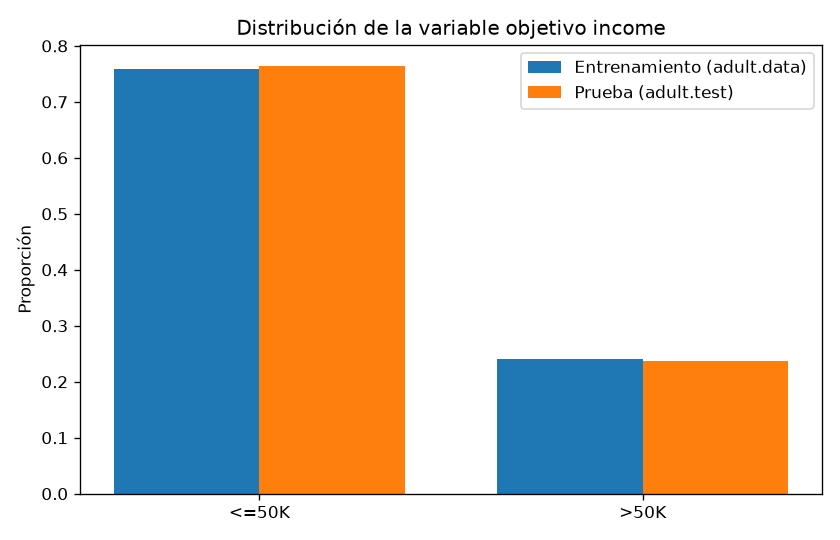
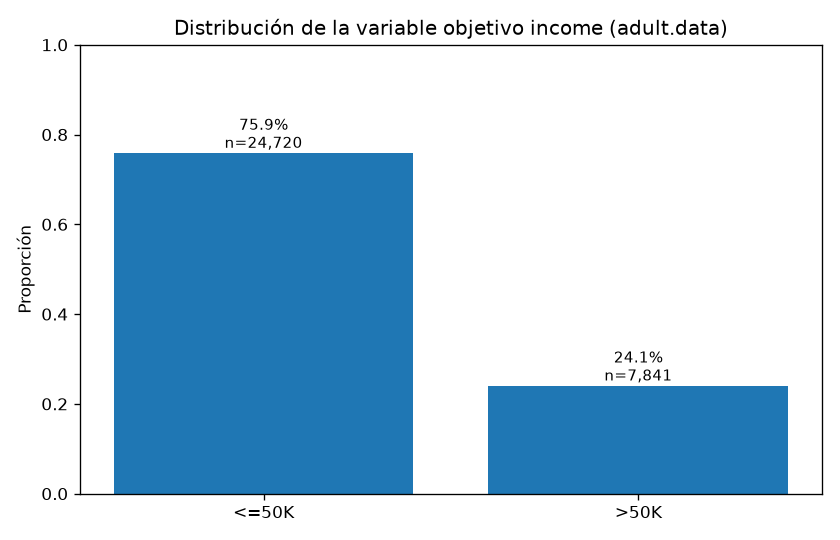
fix: reservar adult.test y conservar faltantes en tasas por grupo refs #3

diff --git a/src/eda.py b/src/eda.py
@@ -6,8 +6,9 @@ Uso:
 Requiere haber descargado antes los datos con:
     python src/download_data.py
 
-Las estadísticas se calculan sobre adult.data. El archivo adult.test
-solo se utiliza para comparar la distribución de la variable objetivo.
+Todas las estadísticas se calculan exclusivamente sobre adult.data.
+El archivo adult.test queda reservado para la evaluación final de los
+modelos y no se utiliza en el EDA.
 """
 
 from pathlib import Path
@@ -53,6 +54,8 @@ CATEGORICAL_COLUMNS = [
 AGE_BINS = [0, 25, 45, 65, 120]
 AGE_LABELS = ["<25", "25-44", "45-64", "65+"]
 
+MISSING_LABEL = "(faltante)"
+
 
 def add_age_group(df, bins=AGE_BINS, labels=AGE_LABELS):
     """Devuelve una copia del DataFrame con la columna age_group."""
@@ -86,7 +89,7 @@ def numeric_summary(df, columns=NUMERIC_COLUMNS):
 
 def categorical_distribution(df, column):
     """Frecuencia de cada categoría, incluyendo los valores faltantes."""
-    counts = df[column].fillna("(faltante)").value_counts()
+    counts = df[column].fillna(MISSING_LABEL).value_counts()
     table = pd.DataFrame({
         "n": counts,
         "proporcion": counts / len(df),
@@ -97,10 +100,28 @@ def categorical_distribution(df, column):
     return table
 
 
+def fill_missing_groups(groups):
+    """Sustituye los valores faltantes por una categoría explícita.
+
+    Evita que groupby descarte en silencio los registros sin grupo.
+    En columnas categóricas conserva el orden de las categorías.
+    """
+    if not groups.isna().any():
+        return groups
+    if isinstance(groups.dtype, pd.CategoricalDtype):
+        return groups.cat.add_categories([MISSING_LABEL]).fillna(MISSING_LABEL)
+    return groups.astype(object).where(groups.notna(), MISSING_LABEL)
+
+
 def income_rate_by_group(df, group_column, target=TARGET, positive=POSITIVE_CLASS):
-    """Tamaño, casos positivos y tasa de ingresos >50K por grupo."""
+    """Tamaño, casos positivos y tasa de ingresos >50K por grupo.
+
+    Los registros con el grupo faltante se reportan como "(faltante)"
+    en lugar de excluirse de las estadísticas.
+    """
     is_positive = df[target] == positive
-    grouped = is_positive.groupby(df[group_column], observed=True)
+    groups = fill_missing_groups(df[group_column])
+    grouped = is_positive.groupby(groups, observed=True)
 
     table = pd.DataFrame({
         "n": grouped.size(),
@@ -115,22 +136,14 @@ def income_rate_by_group(df, group_column, target=TARGET, positive=POSITIVE_CLAS
     return table
 
 
-def plot_target_distribution(train_dist, test_dist, path):
-    classes = train_dist[TARGET].tolist()
-    test_props = test_dist.set_index(TARGET).loc[classes, "proporcion"].values
-    positions = range(len(classes))
-    width = 0.38
-
+def plot_target_distribution(target_dist, path):
     fig, ax = plt.subplots(figsize=(7, 4.5))
-    ax.bar([p - width / 2 for p in positions], train_dist["proporcion"], width,
-           label="Entrenamiento (adult.data)")
-    ax.bar([p + width / 2 for p in positions], test_props, width,
-           label="Prueba (adult.test)")
-    ax.set_xticks(list(positions))
-    ax.set_xticklabels(classes)
+    ax.bar(target_dist[TARGET], target_dist["proporcion"])
+    for i, (prop, n) in enumerate(zip(target_dist["proporcion"], target_dist["n"])):
+        ax.text(i, prop, f"{prop:.1%}\nn={n:,}", ha="center", va="bottom", fontsize=9)
     ax.set_ylabel("Proporción")
-    ax.set_title("Distribución de la variable objetivo income")
-    ax.legend()
+    ax.set_ylim(0, 1)
+    ax.set_title("Distribución de la variable objetivo income (adult.data)")
     fig.tight_layout()
     fig.savefig(path, dpi=120)
     plt.close(fig)
@@ -186,19 +199,14 @@ def plot_numeric_by_income(df, columns, path):
 
 
 def run_eda():
-    train, test = load_data()
+    train, _ = load_data()  # adult.test queda reservado para la evaluación final.
     train = add_age_group(train)
 
     REPORTS_DIR.mkdir(parents=True, exist_ok=True)
     FIGURES_DIR.mkdir(parents=True, exist_ok=True)
 
     # 1. Variable objetivo
-    train_target = target_distribution(train)
-    test_target = target_distribution(test)
-    target_table = pd.concat([
-        train_target.assign(conjunto="train"),
-        test_target.assign(conjunto="test"),
-    ])
+    target_table = target_distribution(train)
     target_table.round(4).to_csv(REPORTS_DIR / "distribucion_income.csv", index=False)
 
     # 2. Variables numéricas
@@ -224,7 +232,7 @@ def run_eda():
     overall_rate = (train[TARGET] == POSITIVE_CLASS).mean()
 
     # 5. Gráficos
-    plot_target_distribution(train_target, test_target, FIGURES_DIR / "eda_distribucion_income.png")
+    plot_target_distribution(target_table, FIGURES_DIR / "eda_distribucion_income.png")
     plot_age_distribution(train, FIGURES_DIR / "eda_edad_por_income.png")
     plot_rate_by_group(rates["sex"], "Tasa de ingresos >50K por sexo",
                        overall_rate, FIGURES_DIR / "eda_tasa_por_sexo.png")
@@ -236,7 +244,7 @@ def run_eda():
                            FIGURES_DIR / "eda_numericas_por_income.png")
 
     # 6. Resumen en consola
-    print("\n=== DISTRIBUCIÓN DE INCOME ===")
+    print("\n=== DISTRIBUCIÓN DE INCOME (adult.data) ===")
     print(target_table.round(4).to_string(index=False))
 
     print(f"\nTasa global de ingresos >50K (adult.data): {overall_rate:.4f}")

diff --git a/tests/test_eda.py b/tests/test_eda.py
@@ -7,7 +7,12 @@ import pytest
 PROJECT_ROOT = Path(__file__).resolve().parents[1]
 sys.path.insert(0, str(PROJECT_ROOT / "src"))
 
-from eda import add_age_group, income_rate_by_group, target_distribution
+from eda import (
+    MISSING_LABEL,
+    add_age_group,
+    income_rate_by_group,
+    target_distribution,
+)
 
 
 def test_eda_with_controlled_data():
@@ -41,3 +46,28 @@ def test_eda_with_controlled_data():
     dist = target_distribution(df).set_index("income")
     assert dist.loc[">50K", "n"] == 4
     assert dist["proporcion"].sum() == pytest.approx(1.0)
+
+
+def test_eda_keeps_records_with_missing_groups():
+    """Los registros con grupo faltante se reportan, no se excluyen."""
+    df = pd.DataFrame({
+        "age": [30, None, 50, 70, None],
+        "sex": ["Female", None, "Male", None, "Male"],
+        "income": [">50K", ">50K", "<=50K", "<=50K", ">50K"],
+    })
+
+    # Sexo: 2 registros sin valor (1 de ellos con >50K).
+    by_sex = income_rate_by_group(df, "sex").set_index("grupo")
+    assert by_sex["n"].sum() == len(df)
+    assert by_sex.loc[MISSING_LABEL, "n"] == 2
+    assert by_sex.loc[MISSING_LABEL, "n_positivos"] == 1
+    assert by_sex.loc[MISSING_LABEL, "tasa_positiva"] == pytest.approx(0.5)
+    assert by_sex["proporcion_muestra"].sum() == pytest.approx(1.0)
+
+    # Grupo etario: 2 edades faltantes, ambas con >50K.
+    by_age = income_rate_by_group(add_age_group(df), "age_group").set_index("grupo")
+    assert by_age["n"].sum() == len(df)
+    assert by_age.loc[MISSING_LABEL, "n"] == 2
+    assert by_age.loc[MISSING_LABEL, "tasa_positiva"] == pytest.approx(1.0)
+    # El orden de los grupos etarios se conserva y "(faltante)" va al final.
+    assert by_age.index.astype(str).tolist() == ["25-44", "45-64", "65+", MISSING_LABEL]

diff --git a/docs/EDA_RESUMEN.md b/docs/EDA_RESUMEN.md
@@ -6,7 +6,8 @@ Reproducción: `python src/download_data.py` y luego `python src/eda.py`
 
 ## 1. Alcance y decisiones
 
-- Las estadísticas se calculan sobre `adult.data` (32,561 registros). `adult.test` solo se usa para comparar la distribución de la variable objetivo, sin explorar sus características.
+- Todas las estadísticas se calculan exclusivamente sobre `adult.data` (32,561 registros). `adult.test` queda reservado para la evaluación final de los modelos y no se utiliza en el EDA.
+- Los registros con valores faltantes en una variable de agrupación se reportan en la categoría `(faltante)` en lugar de excluirse. En `adult.data`, `sex`, `race` y `age` no tienen faltantes, por lo que las tablas por grupo no cambian.
 - La carga utiliza `load_data()` de `src/inspect_data.py`, el procedimiento común del proyecto.
 - No se repite la auditoría de calidad (faltantes, duplicados y coincidencias), documentada en `docs/DATASET_CARD.md`.
 - Los grupos etarios (`<25`, `25-44`, `45-64`, `65+`) son provisionales y deben confirmarse en el acuerdo metodológico del equipo.
@@ -17,14 +18,14 @@ Salidas generadas:
 
 ## 2. Variable objetivo
 
-| Conjunto | `<=50K` | `>50K` | Proporción `>50K` |
-|---|---:|---:|---:|
-| Entrenamiento (`adult.data`) | 24,720 | 7,841 | 24.08 % |
-| Prueba (`adult.test`) | 12,435 | 3,846 | 23.62 % |
+| Clase | n | Proporción |
+|---|---:|---:|
+| `<=50K` | 24,720 | 75.92 % |
+| `>50K` | 7,841 | 24.08 % |
 
 ![Distribución de income](../reports/figures/eda_distribucion_income.png)
 
-Interpretación: las clases están desbalanceadas. Un clasificador que siempre prediga `<=50K` tendría un accuracy de aproximadamente 75.9 % en entrenamiento sin aprender nada. Por eso la comparación de modelos debe basarse en F1, precisión y recall, y no en el accuracy. La proporción es similar en ambos conjuntos.
+Interpretación: las clases están desbalanceadas. Un clasificador que siempre prediga `<=50K` tendría un accuracy de aproximadamente 75.9 % sin aprender nada. Por eso la comparación de modelos debe basarse en F1, precisión y recall, y no en el accuracy. El desbalance también justifica la partición estratificada acordada.
 
 ## 3. Variables numéricas
 
